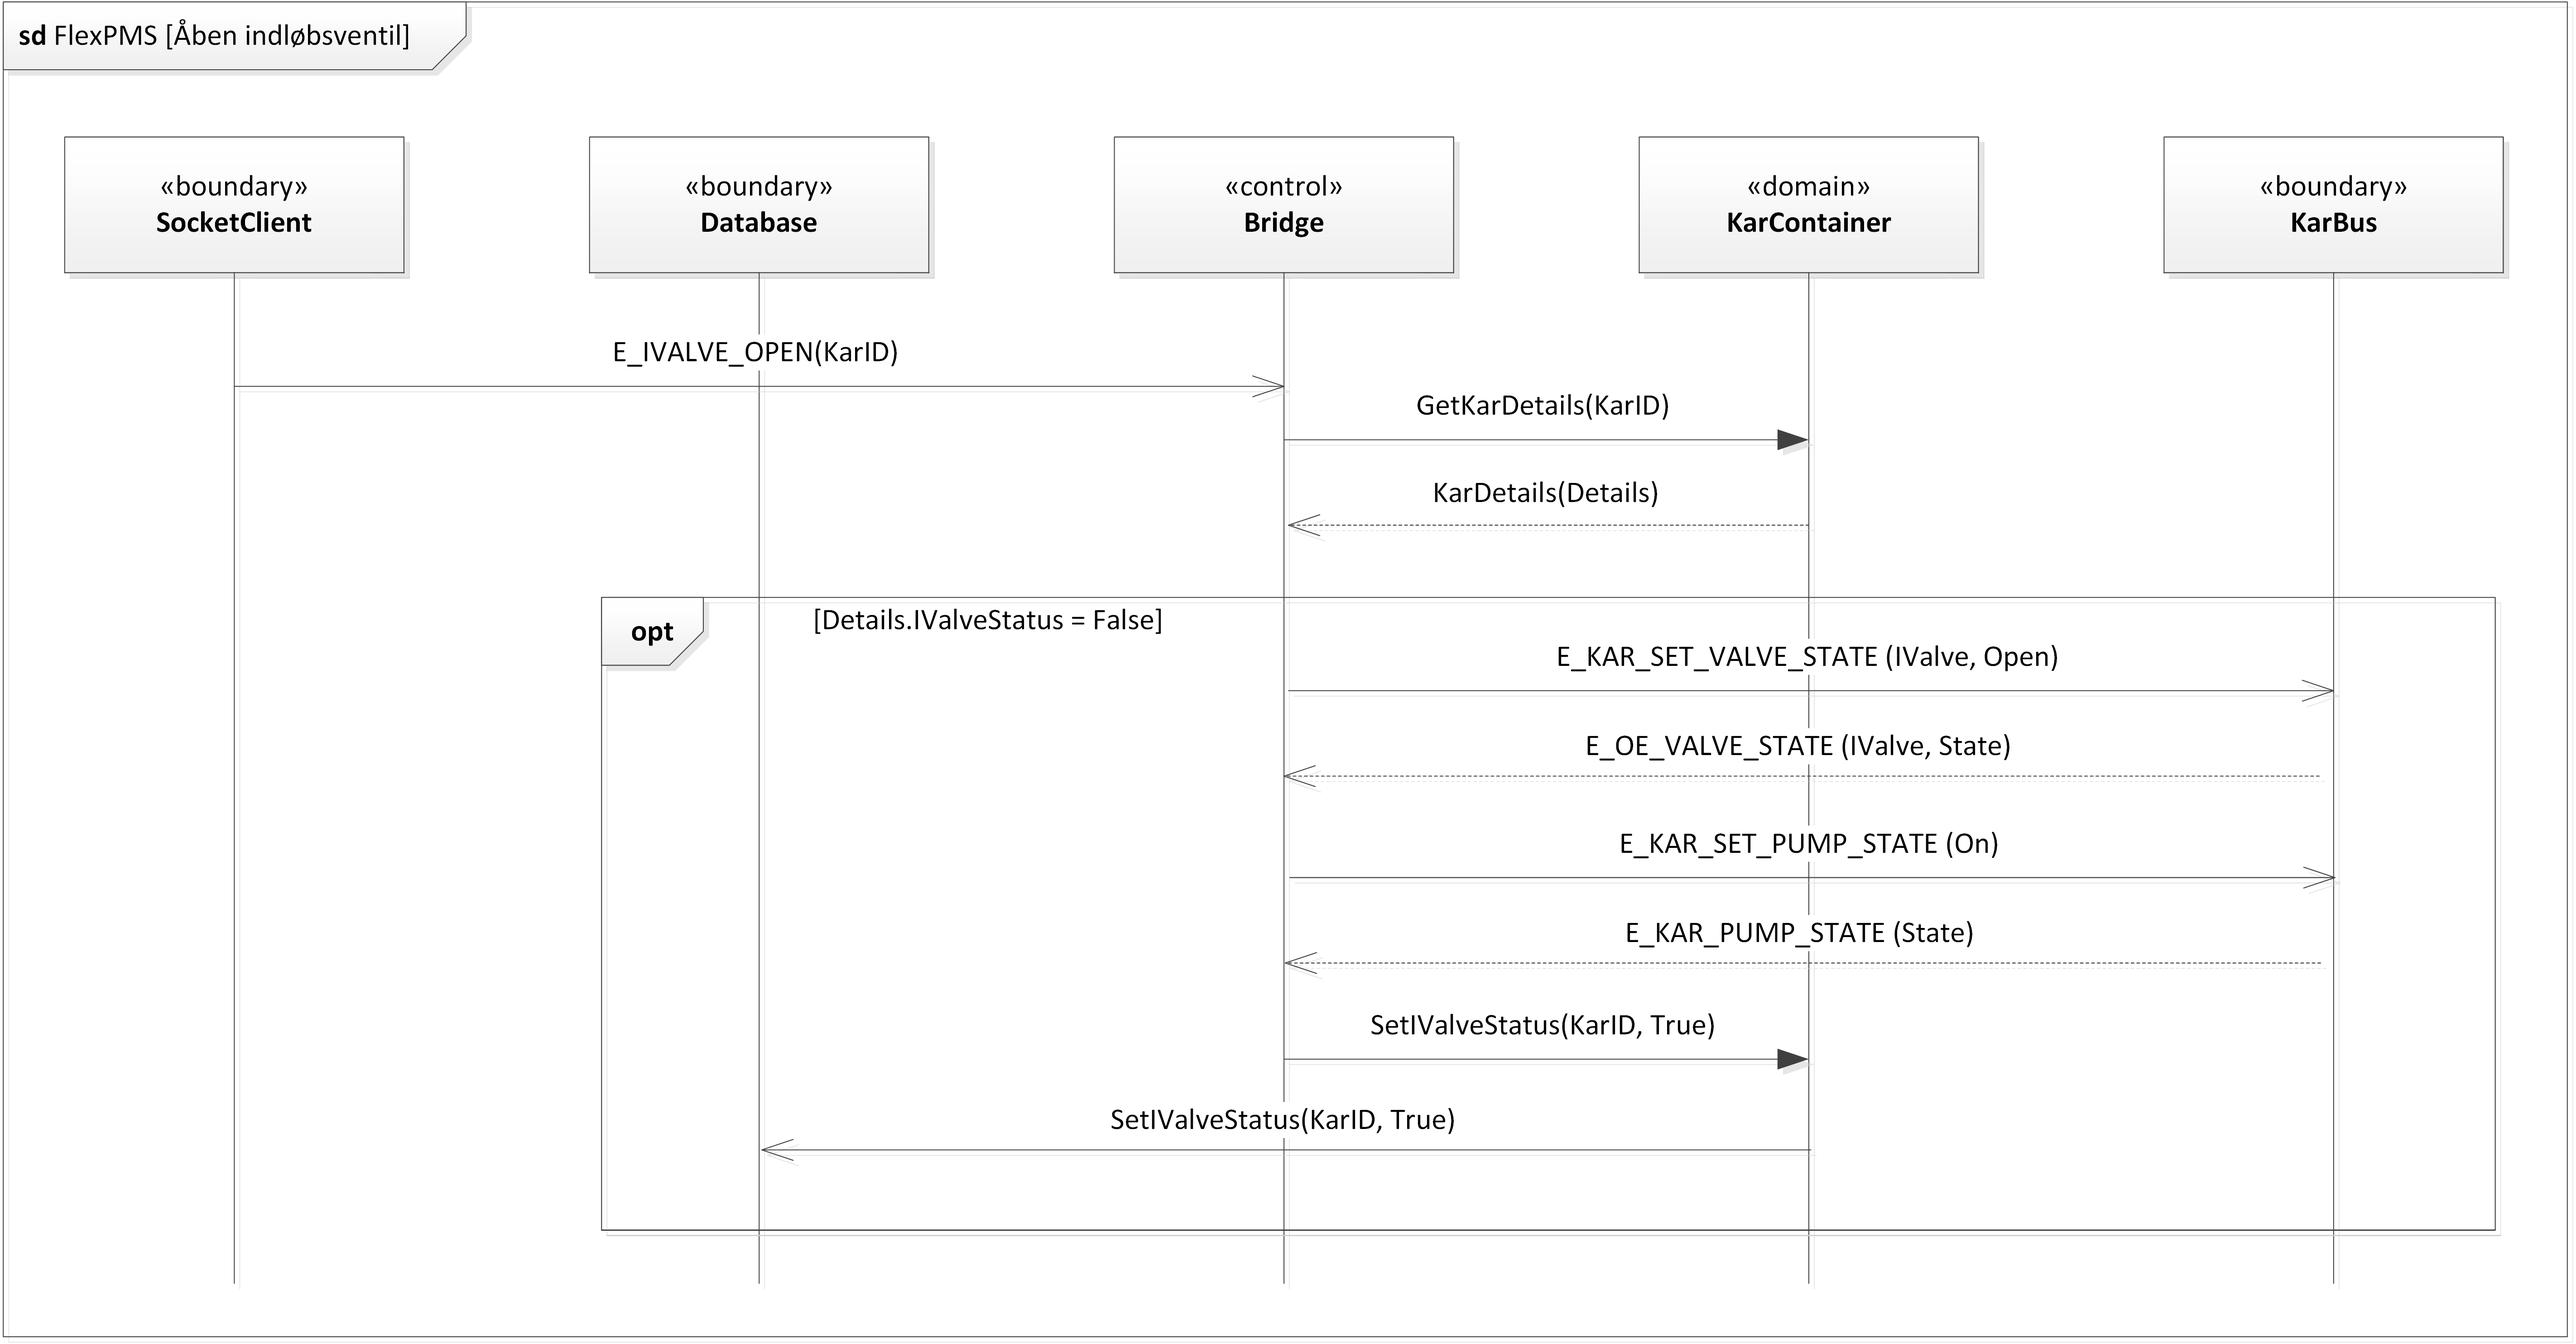
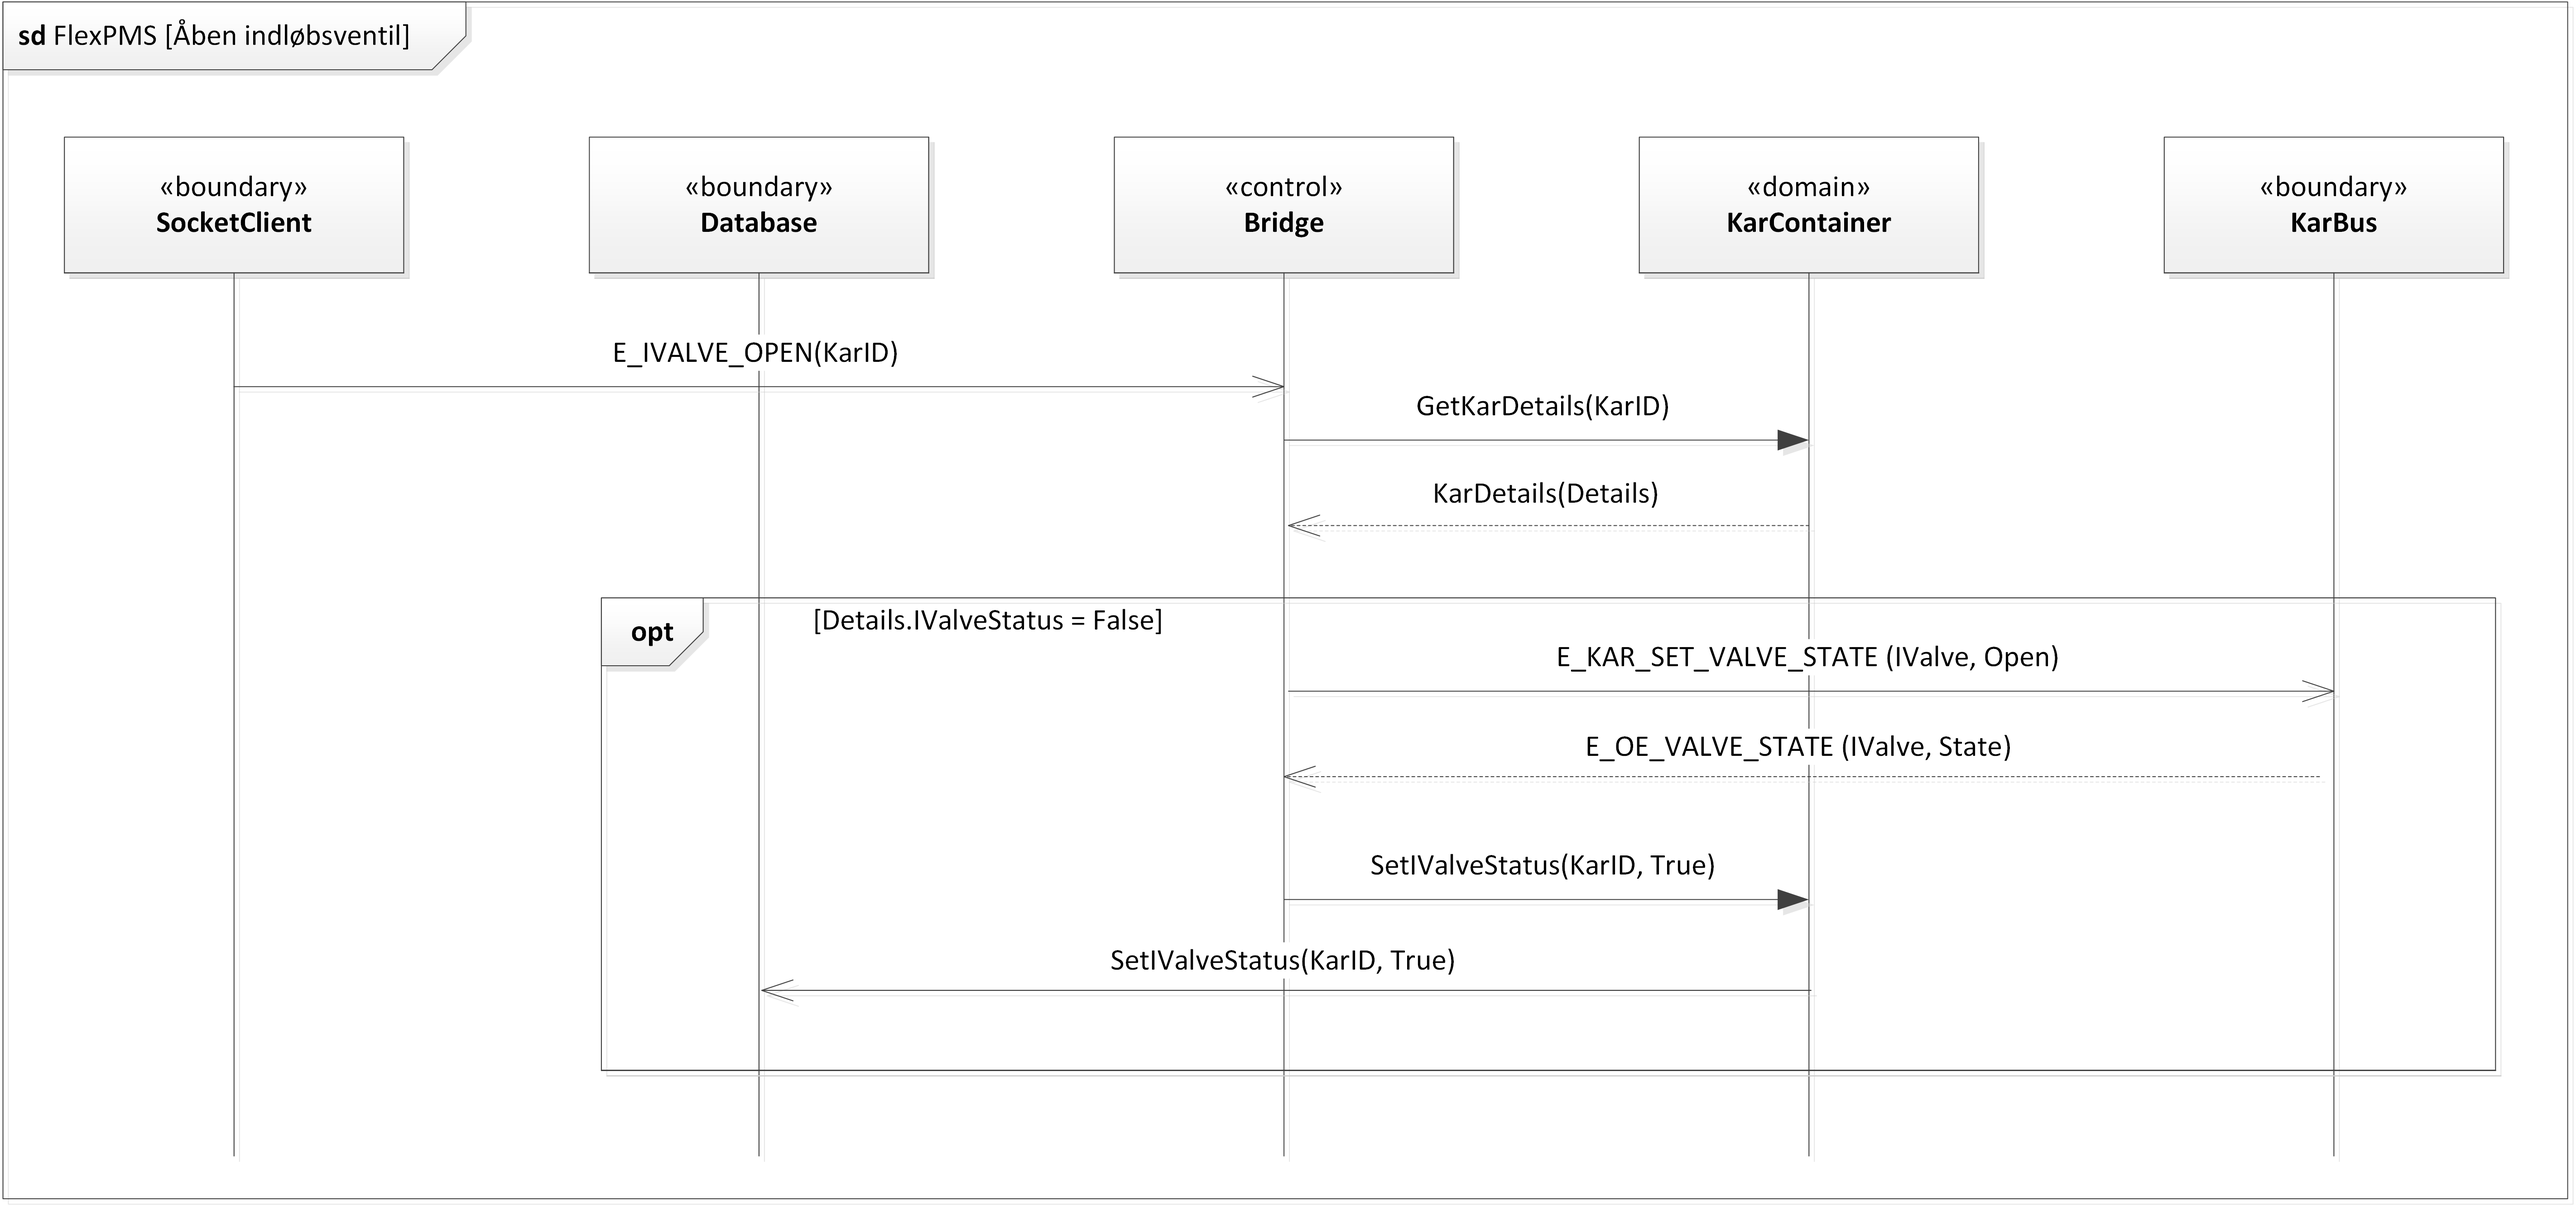
Travis CI

diff --git a/SoftwareArkitektur/FlexPMS/Pakker/UseCases.tex b/SoftwareArkitektur/FlexPMS/Pakker/UseCases.tex
@@ -1,7 +1,7 @@
 
 \subsubsection{Start manuel vanding}
 
-Bla bla bla
+Når manuel vanding startes for et kar, så skal alle ventiler, som sidder på sensor Ø'er, der er koblet til karret, åbnes. Derefter startes pumpen, som pumper vand ud til Ø'erne. Herefter registreres status i databasen.
 
 \begin{figure}[H]
 	\centering
@@ -13,7 +13,7 @@ Bla bla bla
 
 \subsubsection{Stop manuel vanding}
 
-Bla bla bla
+Når manuel vanding stoppes for et kar, så skal alle ventiler, som sidder på sensor Ø'er, der er koblet til karret, lukkes. Derefter stoppes pumpen. Herefter registreres status i databasen.
 
 \begin{figure}[H]
 	\centering
@@ -23,33 +23,9 @@ Bla bla bla
 \end{figure}
 
 
-\subsubsection{Åben afløbsventil}
-
-Bla bla bla
-
-\begin{figure}[H]
-	\centering
-	\includegraphics[scale=.6]{SoftwareArkitektur/FlexPMS/Diagrammer/Case_OpenOValve.png}
-	\caption{FlexPMS' håndtering af at åbne afløbsventilen}
-	\label{photo:OpenOValveUseCase}
-\end{figure}
-
-
-\subsubsection{Luk afløbsventil}
-
-Bla bla bla
-
-\begin{figure}[H]
-	\centering
-	\includegraphics[scale=.6]{SoftwareArkitektur/FlexPMS/Diagrammer/Case_CloseOValve.png}
-	\caption{FlexPMS' håndtering af at lukke afløbsventilen}
-	\label{photo:CloseOValveUseCase}
-\end{figure}
-
-
 \subsubsection{Åben indløbsventil}
 
-Bla bla bla
+Når indløbsventilen skal åbnes, så sendes en åben-kommando til karret. Herefter registreres status i databasen.
 
 \begin{figure}[H]
 	\centering
@@ -61,12 +37,36 @@ Bla bla bla
 
 \subsubsection{Luk indløbsventil}
 
-Bla bla bla
+Når indløbsventilen skal lukkes, så sendes en luk-kommando til karret. Herefter registreres status i databasen.
 
 \begin{figure}[H]
 	\centering
 	\includegraphics[scale=.6]{SoftwareArkitektur/FlexPMS/Diagrammer/Case_CloseIValve.png}
 	\caption{FlexPMS' håndtering af at lukke indløbsventilen}
+	\label{photo:CloseOValveUseCase}
+\end{figure}
+
+
+\subsubsection{Åben afløbsventil}
+
+Når afløbsventilen skal åbnes, så sendes først en åben-kommando til karret, hvorefter pumpen tændes. Pumpen tændes fordi der skal tilstrækkeligt tryk i slangerne til, at vand kan løbe igennem ventilen. Herefter registreres status i databasen.
+
+\begin{figure}[H]
+	\centering
+	\includegraphics[scale=.6]{SoftwareArkitektur/FlexPMS/Diagrammer/Case_OpenOValve.png}
+	\caption{FlexPMS' håndtering af at åbne afløbsventilen}
+	\label{photo:OpenOValveUseCase}
+\end{figure}
+
+
+\subsubsection{Luk afløbsventil}
+
+Når afløbsventilen skal lukkes, så sendes først en luk-kommando til karret, hvorefter pumpen stoppes. Herefter registreres status i databasen.
+
+\begin{figure}[H]
+	\centering
+	\includegraphics[scale=.6]{SoftwareArkitektur/FlexPMS/Diagrammer/Case_CloseOValve.png}
+	\caption{FlexPMS' håndtering af at lukke afløbsventilen}
 	\label{photo:CloseOValveUseCase}
 \end{figure}
 

diff --git a/SoftwareArkitektur/FlexPMS/Pakker/Bridge.tex b/SoftwareArkitektur/FlexPMS/Pakker/Bridge.tex
@@ -1,8 +1,14 @@
-\textit{Bridge}, som er en specialisering af \textit{MessageThread}, er den centrale controller i FlexPMS. Den kommunikerer med både GUI og RS485, og håndterer al den logik der ligger ind imellem. Det er også Bridge, der håndterer timing-baserede events som f.eks. at poll'e data fra kar. Det er også Bridge, der tilgår databasen gennem domænemodeller.
+\textit{Controller}, der består af \textit{Bridge}, som er en specialisering af \textit{MessageThread}, er den centrale controller i FlexPMS. Den kommunikerer med både GUI og KarBus, og håndterer al den logik der ligger ind imellem. Det er også Bridge, der håndterer timing-baserede events som f.eks. at poll'e data fra kar. Det er også Bridge, der tilgår databasen gennem domænemodeller.
 
-\KlasseDiagram{0.5}{FlexPMS}{Controller}
+\KlasseDiagram{0.85}{FlexPMS}{Controller}
 
-\subsubsection{Sessions}
+\subsubsection{Bridge}
+
+
+\textbf{Sessions}
 Når Bridge modtager en forespørgsel fra en \textit{SocketClient} om at blive registreret, så tildeler Bridge den forespørgende \textit{SocketClient} det næste ledige sessions ID. Herefter kan \textit{SocketClient} begynde at sende beskeder til Bridge, som videreformidler beskederne til KarBus. Beskeden til KarBus skulle indeholde et sessions ID på den forespørgende \textit{SocketClient}, så i tilfælde af, at \textit{SocketClient} skulle have svar, kunne KarBus sende ID’et med tilbage til Bridge, som kunne identificere hvilken \textit{SocketClient} den skulle sende svaret til. Vi fik dog aldrig brug for at sende svar tilbage til \textit{SocketClient}, så sessions ID'er er ikke blevet implementeret i kommunikationen mellem Bridge og KarBus.\\\\
 
-Se Figur \ref{fig:SocketClient_SekvensDiagram} for en \textit{SocketClient}'s livscyklus, som inkluderer registrering med sessioner.
+Se Figur \ref{fig:SocketClient_SekvensDiagram} for en \textit{SocketClient}'s livscyklus, som inkluderer registrering med sessioner.\\\\
+
+\textbf{KarPinger}
+\textit{KarPinger}, som er en specialisering af \textit{Thread}, har det ene formål at sende et PING-event til \textit{Bridge} hvert 10. sekund.

diff --git a/SoftwareArkitektur/FlexPMS/FlexPMS.tex b/SoftwareArkitektur/FlexPMS/FlexPMS.tex
@@ -3,11 +3,11 @@ Lorem ipsum dolor sit amet, consectetur adipiscing elit. Vivamus at erat blandit
 
 \PakkeDiagram{0.82}{FlexPMS}{FlexPMS}
 
-\subsection{Threading}
-\input{SoftwareArkitektur/FlexPMS/Pakker/Threading}
-
 \subsection{Use cases}
 \input{SoftwareArkitektur/FlexPMS/Pakker/UseCases}
+
+\subsection{Threading}
+\input{SoftwareArkitektur/FlexPMS/Pakker/Threading}
 
 \subsection{Event-baseret beskedsystem}
 \input{SoftwareArkitektur/FlexPMS/Pakker/EventSystem}
@@ -21,7 +21,7 @@ Lorem ipsum dolor sit amet, consectetur adipiscing elit. Vivamus at erat blandit
 \subsection{Socket server}
 \input{SoftwareArkitektur/FlexPMS/Pakker/SocketServer}
 
-\subsection{Bridge}
+\subsection{Controller}
 \input{SoftwareArkitektur/FlexPMS/Pakker/Bridge}
 
 \subsection{Kar Kommunikation}
